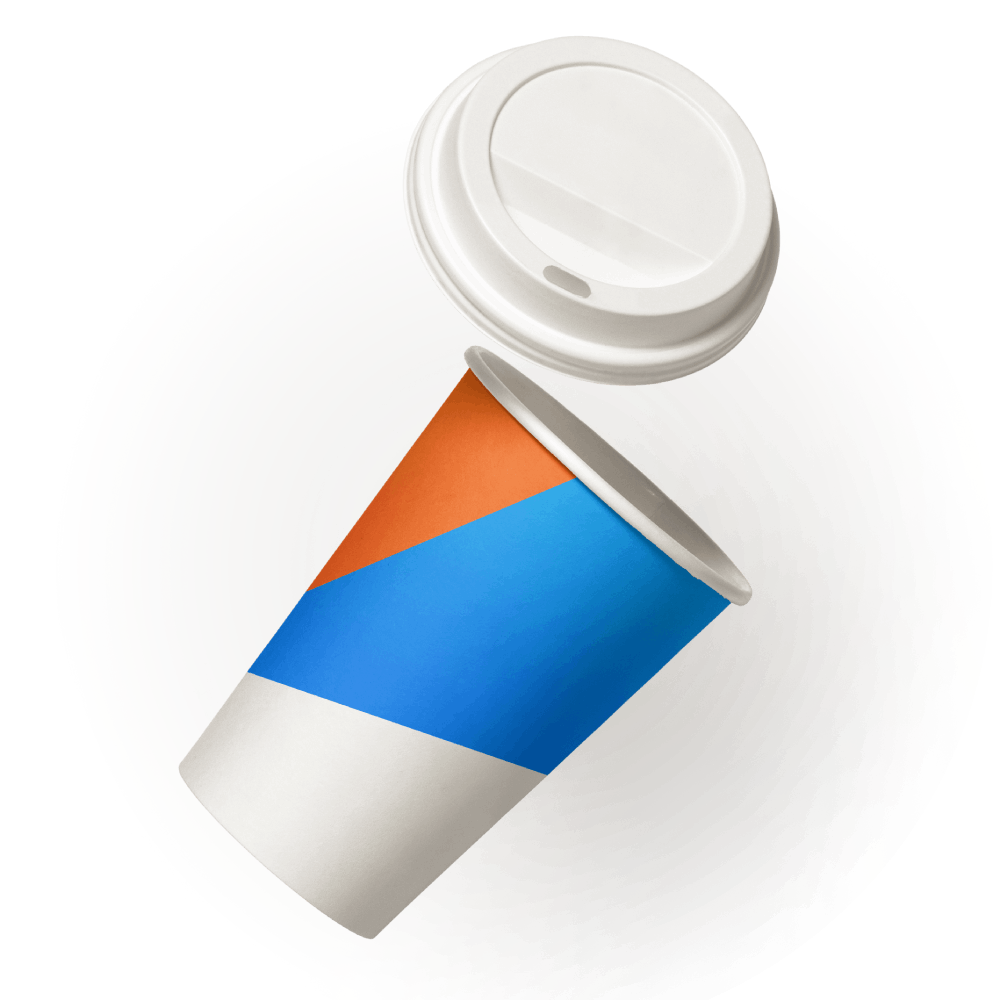
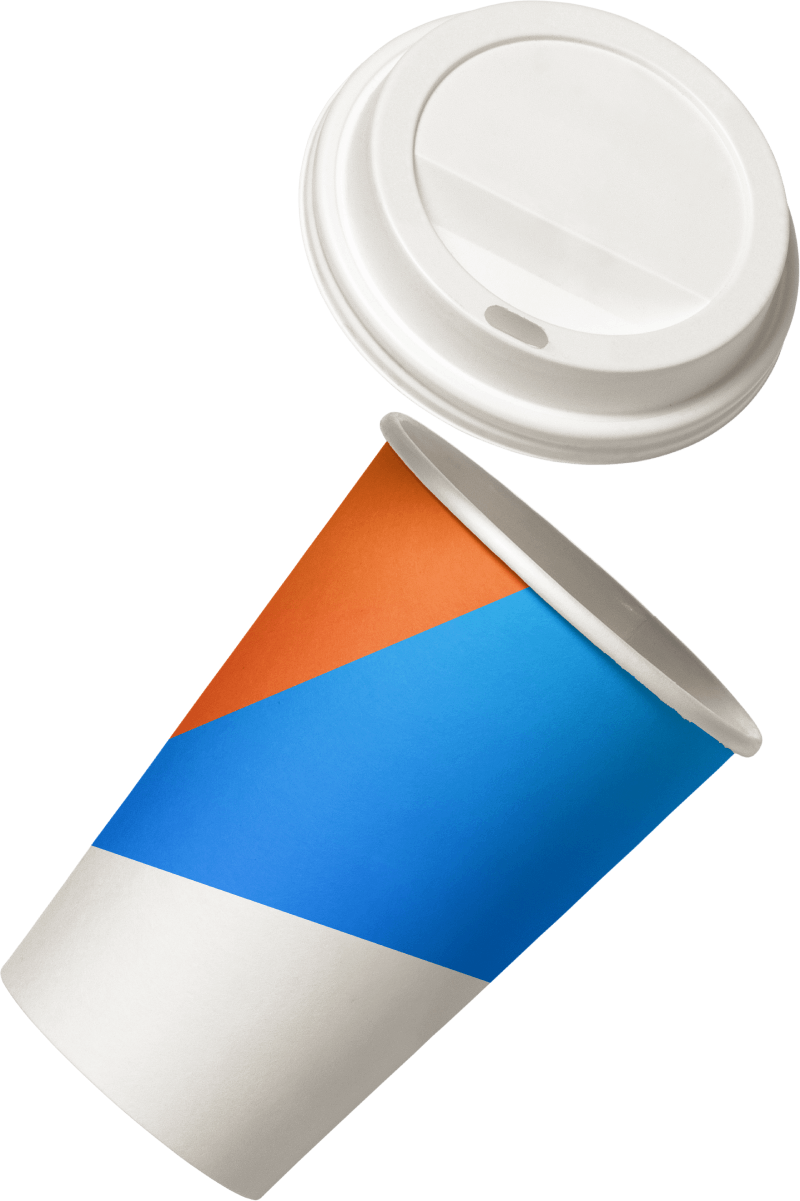
Improve website and add termynal library

Changed region(s): [[0.0, 0.0, 1.0, 1.0]]

diff --git a/website/static/css/coffee-code-ws.css b/website/static/css/coffee-code-ws.css
@@ -7,8 +7,16 @@ html {
   scroll-behavior: smooth;
 }
 
-.top-nav {
+.container-top-nav {
   padding-bottom: 24rem;
+}
+
+.top-nav {
+  margin-bottom: 16rem;
+}
+
+.top-nav > code {
+  width: 100%;
 }
 
 .bg-color-scheme-responsive {
@@ -38,17 +46,40 @@ html {
 }
 
 code {
-  color: #007bff !important;
   font-size: 85%;
-  background-color: #ecf0f1 !important;
+  background-color: #ecf0f1;
   padding: 2px;
   border-radius: 5px;
+  overflow: auto;
+}
+
+.coffee-container {
+  position: absolute;
+  left: 0;
+  right: 0;
+  top: 0;
+  bottom: 0;
+  height: 24rem;
+  z-index: 1;
+  clip-path: polygon(0 0, 100% 0,100% 100%,0 20%);
+  -webkit-clip-path: polygon(0 0, 100% 0,100% 100%,0 20%);
+}
+
+.coffee {
+  position: absolute;
+  max-height: 100%;
+  max-width: 100%;
+  left: -4rem;
+  top: 10rem;
+  bottom: -2rem;
+  z-index: 3;
 }
 
 .polygon-top-left {
   background: rgb(241,39,17);
   background: linear-gradient(294deg, rgba(241,39,17,1) 0%, rgba(245,175,25,1) 100%);
   clip-path: polygon(0 0, 100% 0,100% 50%,0 100%);
+  -webkit-clip-path: polygon(0 0, 100% 0,100% 50%,0 100%);
   position: relative;
 }
 
@@ -56,6 +87,7 @@ code {
   background: rgb(0,198,255);
   background: linear-gradient(27deg, rgba(0,198,255,1) 0%, rgba(0,114,255,1) 100%);
   clip-path: polygon(0 0, 100% 0,100% 100%,0 20%);
+  -webkit-clip-path: polygon(0 0, 100% 0,100% 100%,0 20%);
   position: relative;
 }
 
@@ -63,6 +95,7 @@ code {
   background: rgb(241,39,17);
   background: linear-gradient(294deg, rgba(241,39,17,1) 0%, rgba(245,175,25,1) 100%);
   clip-path: polygon(100% 100%, 0 100%, 0 50%,100% 0);
+  -webkit-clip-path: polygon(100% 100%, 0 100%, 0 50%,100% 0);
   position: relative;
 }
 
@@ -70,6 +103,7 @@ code {
   background: rgb(0,198,255);
   background: linear-gradient(27deg, rgba(0,198,255,1) 0%, rgba(0,114,255,1) 100%);
   clip-path: polygon(100% 100%, 0 100%,0 0, 100% 80%);
+  -webkit-clip-path: polygon(100% 100%, 0 100%,0 0, 100% 80%);
   position: relative;
 }
 

diff --git a/website/templates/base.html b/website/templates/base.html
@@ -11,6 +11,7 @@
   <title>{% block title %}Kaffee, Code und Web Services{% endblock %}</title>
 
   <link rel="stylesheet" type="text/css" href="{% static 'vendor/css/bootstrap.min.css' %}">
+  <link rel="stylesheet" type="text/css" href="{% static 'vendor/css/termynal.css' %}">
   <link href="https://fonts.googleapis.com/css?family=Roboto&display=swap" rel="stylesheet">
   <link rel="stylesheet" type="text/css" href="{% static 'css/coffee-code-ws.css' %}">
 
@@ -20,24 +21,13 @@
 <body class="bg-color-scheme-responsive text-color-scheme-responsive">
 
 <div class="polygon-top-left">
+<img class="coffee" src="{% static 'img/coffee.png' %}" alt="">
 <div class="polygon-top-right">
-  <div class="container">
-    <nav class="navbar navbar-expand-lg navbar-dark pt-4 top-nav">
-      <a class="navbar-brand mr-auto" href="/">☕💻.ws</a>
-      <ul class="navbar-nav mt-2 mt-lg-0">
-          <li class="nav-item">
-            <a class="nav-link" href="#">Kaffee, </a>
-          </li>
-          <li class="nav-item">
-            <a class="nav-link" href="#">Code</a>
-          </li>
-          <li class="nav-item">
-            <a class="nav-link disabled" href="#">und</a>
-          </li>
-          <li class="nav-item">
-            <a class="nav-link" href="#">Web Services</a>
-          </li>
-        </ul>
+  <div class="container container-top-nav">
+    <nav class="navbar text-center top-nav pt-3 pl-0 pr-0 pb-3">
+      <code class="bg-color-scheme-responsive text-color-scheme-responsive p-2">
+        $ Kaffee, Code und Web Services
+      </code>
     </nav>
   </div>
 </div>
@@ -74,6 +64,9 @@
 </div>
 
 {% block extrabody %}{% endblock %}
+
+<script src="{% static 'vendor/js/termynal.js' %}"></script>
+<script>new Termynal('#header-termynal');</script>
 
 </body>
 </html>
